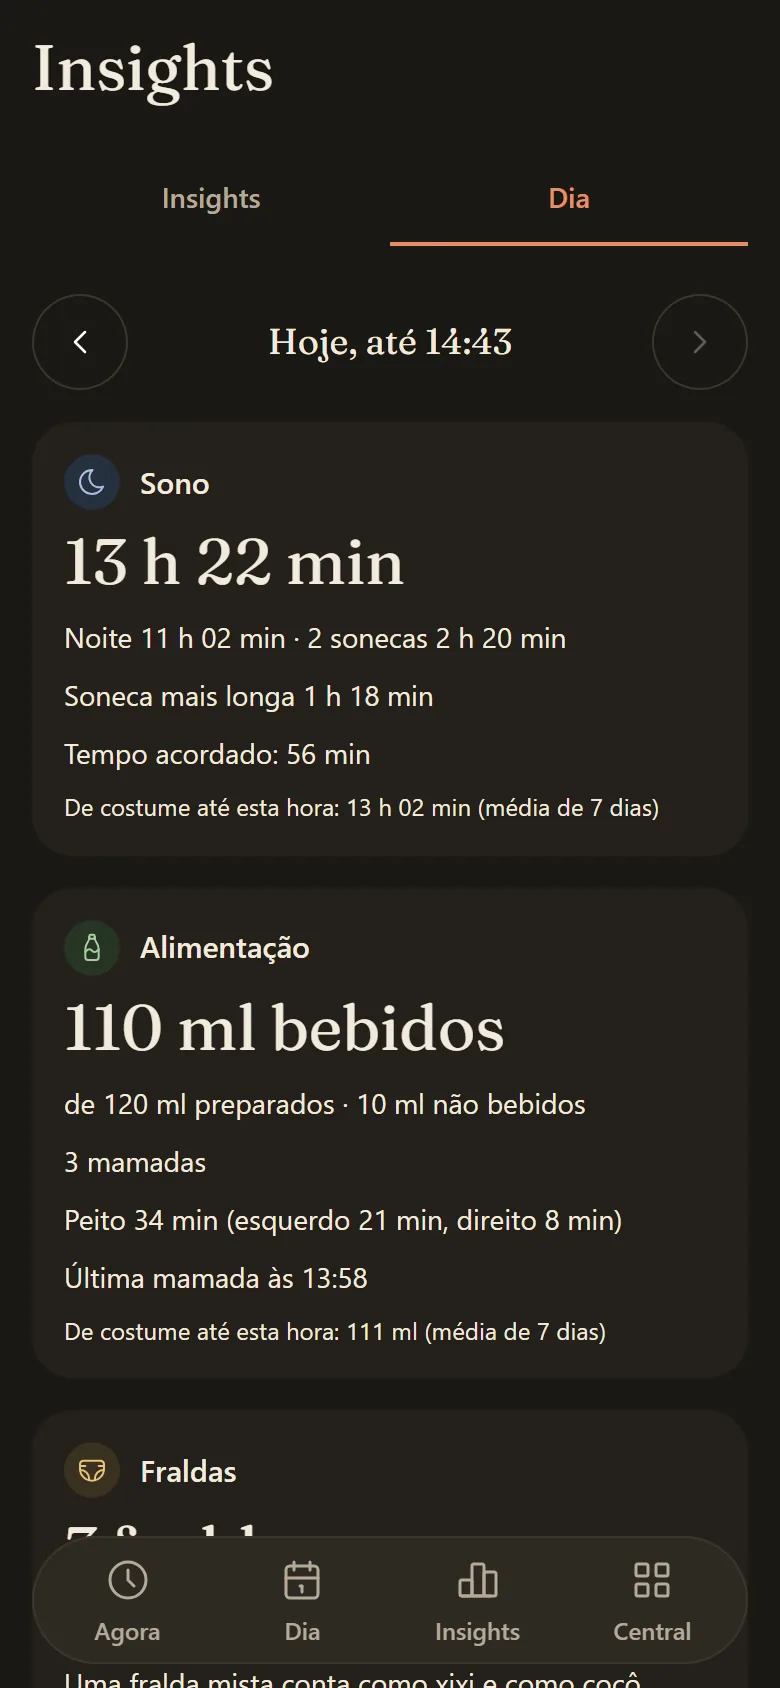
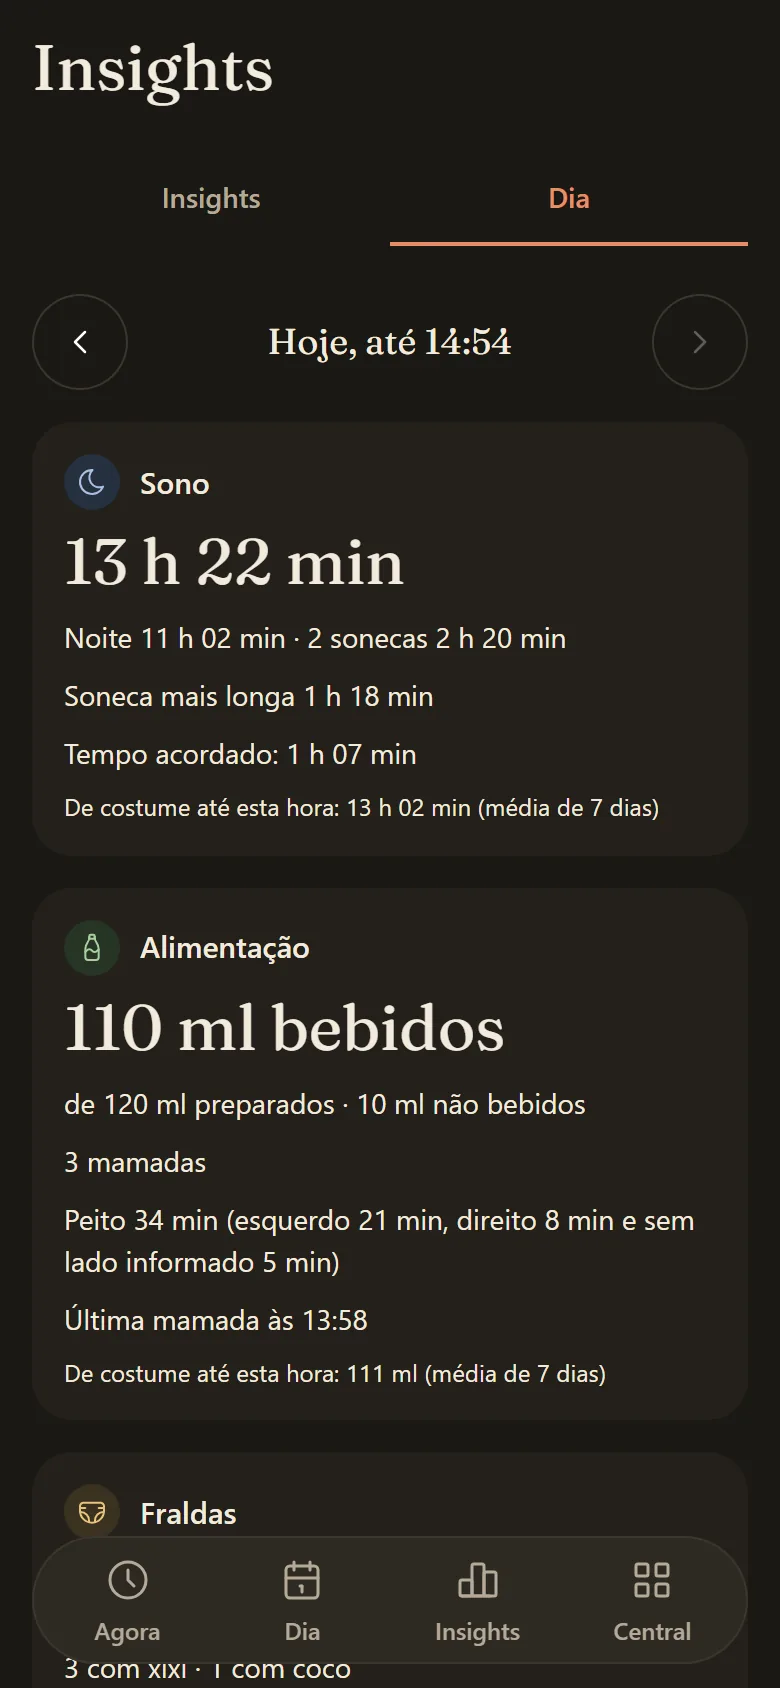
Day summary: breast time parts add up to the total as shown
Time that no side accounts for (a feed without side times, or minutes the
side timers did not cover) is shown as its own part, "side not recorded",
and the parts share the rounded total by the largest remainder, so left,
right and the rest always add up to the shown total. Screenshots and the
day-summary showcase media regenerated.

diff --git a/code/web/src/daySummary/daySummaryModel.ts b/code/web/src/daySummary/daySummaryModel.ts
@@ -104,12 +104,32 @@ export interface FeedingDay {
   feeds: number;
   /** Finished bottles of the day (the Now "Milk today" value); `null` without an amount. */
   milk: MilkToday | null;
-  /** Breast feeds: effective total and, when the payload has them, the seconds per side (ms). */
-  breast: { totalMs: number; leftMs: number; rightMs: number; hasSides: boolean } | null;
+  /**
+   * Breast feeds (ms): the effective total, the time timed per side and the rest of the total that
+   * no side accounts for (a feed without side seconds, or minutes a side timer did not cover), so
+   * left + right + unsided = total. `hasSides`: any side was timed.
+   */
+  breast: BreastTime | null;
   lastFeedAt: string | null;
   /** What the usual line measures: the drunk ml when the headline is ml, else the feed count. */
   usualMetric: 'ml' | 'feeds';
   usual: Usual | null;
+}
+
+export interface BreastTime {
+  totalMs: number;
+  leftMs: number;
+  rightMs: number;
+  unsidedMs: number;
+  hasSides: boolean;
+}
+
+/** Breast time as shown, in whole minutes: the parts always add up to the shown total. */
+export interface ShownBreast {
+  total: number;
+  left: number;
+  right: number;
+  unsided: number;
 }
 
 export interface DiaperDayCounts {
@@ -286,22 +306,51 @@ const feedsOf = (facts: Facts, day: MeasuredDay) =>
 const milkOf = (feeds: readonly BabyEvent[], day: MeasuredDay) =>
   milkFromBottles(feeds.filter((feed) => isFinishedBy(feed, day.cutoffMs)));
 
-function breastOf(feeds: readonly BabyEvent[], now: Date): FeedingDay['breast'] {
+function breastOf(feeds: readonly BabyEvent[], now: Date): BreastTime | null {
   const breast = feeds.filter((feed) => payloadString(feed, 'method') === 'breast');
   if (breast.length === 0) return null;
   let totalMs = 0;
   let leftMs = 0;
   let rightMs = 0;
   for (const feed of breast) {
-    totalMs += effectiveDurationMs(feed, now);
     const sides = nursingElapsed(feed, now);
-    leftMs += sides.left * 1000;
-    rightMs += sides.right * 1000;
+    const left = sides.left * 1000;
+    const right = sides.right * 1000;
+    // A feed timed per side is at least as long as its two sides; the rest has no side.
+    totalMs += Math.max(effectiveDurationMs(feed, now), left + right);
+    leftMs += left;
+    rightMs += right;
   }
-  const hasSides = leftMs + rightMs > 0;
-  // A nursing session timed per side is as long as its two sides.
-  const total = Math.max(totalMs, hasSides ? leftMs + rightMs : 0);
-  return total > 0 ? { totalMs: total, leftMs, rightMs, hasSides } : null;
+  if (totalMs <= 0) return null;
+  return {
+    totalMs,
+    leftMs,
+    rightMs,
+    unsidedMs: totalMs - leftMs - rightMs,
+    hasSides: leftMs + rightMs > 0,
+  };
+}
+
+/**
+ * Breast time in whole minutes as the card shows it (like `shownMilk` for the bottles): the total
+ * is rounded once and the parts share it by the largest remainder, so the shown left + right +
+ * unsided always equal the shown total (20.6 + 7.6 min is 28 in total, shown as 21 + 7, not 21 + 8).
+ */
+export function shownBreast(breast: BreastTime): ShownBreast {
+  const raw = [breast.leftMs, breast.rightMs, breast.unsidedMs].map((ms) => ms / MINUTE_MS);
+  const total = Math.round(breast.totalMs / MINUTE_MS);
+  const whole = raw.map(Math.floor);
+  let left = total - whole.reduce((sum, value) => sum + value, 0);
+  const order = raw
+    .map((value, index) => ({ index, rest: value - Math.floor(value) }))
+    .sort((a, b) => b.rest - a.rest || a.index - b.index);
+  for (const { index, rest } of order) {
+    if (left <= 0) break;
+    if (rest <= 0) continue;
+    whole[index] += 1;
+    left -= 1;
+  }
+  return { total, left: whole[0], right: whole[1], unsided: whole[2] };
 }
 
 // --- diapers and crying ---------------------------------------------------------------------

diff --git a/code/web/src/daySummary/DaySummaryCards.tsx b/code/web/src/daySummary/DaySummaryCards.tsx
@@ -1,16 +1,19 @@
 import { useId, type ReactNode } from 'react';
 import { useTranslation } from 'react-i18next';
+import type { TFunction } from 'i18next';
 import { Box, Card, Typography } from '@mui/material';
 import type { EventType } from '../db/models';
 import { eventTypeIconName } from '../events/iconRegistry';
-import { formatDuration, formatNumber, formatTime } from '../i18n/format';
+import { formatDuration, formatList, formatNumber, formatTime } from '../i18n/format';
 import { useEventTypeText } from '../i18n/eventTypeText';
 import { shownMilk } from '../now/milkToday';
 import type { CategoryName } from '../theme/tokens';
 import { useUnits } from '../units/useUnits';
 import { CategoryIcon } from '../ui/CategoryIcon';
 import type { IconName } from '../ui/icons';
+import { shownBreast } from './daySummaryModel';
 import type {
+  BreastTime,
   CryingDay,
   DiaperDayCounts,
   FeedingDay,
@@ -26,6 +29,7 @@ import type {
  */
 
 const duration = (ms: number) => formatDuration(ms);
+const minutes = (count: number) => formatDuration(count * 60_000);
 /** One decimal at most, as a number for the plural rules and `{{count, number}}`. */
 const roundOne = (value: number) => Math.round(value * 10) / 10;
 
@@ -149,6 +153,29 @@ export function SleepDayCard({ sleep, isToday }: { sleep: SleepDay; isToday: boo
   );
 }
 
+/**
+ * "Breast 34m (left 21m, right 8m, side not recorded 5m)": whole minutes from `shownBreast`, so
+ * the parts add up to the total as shown; only the total when no side was timed.
+ */
+function breastText(t: TFunction, breast: BreastTime): string {
+  const shown = shownBreast(breast);
+  const total = minutes(shown.total);
+  if (!breast.hasSides || shown.left + shown.right === 0) {
+    return t('daySummary.feeding.breast', { duration: total });
+  }
+  const parts = [
+    shown.left > 0 ? t('daySummary.feeding.sideLeft', { duration: minutes(shown.left) }) : null,
+    shown.right > 0 ? t('daySummary.feeding.sideRight', { duration: minutes(shown.right) }) : null,
+    shown.unsided > 0
+      ? t('daySummary.feeding.sideNone', { duration: minutes(shown.unsided) })
+      : null,
+  ].filter((part): part is string => part !== null);
+  return t('daySummary.feeding.breastParts', {
+    duration: total,
+    parts: formatList(parts, 'unit'),
+  });
+}
+
 export function FeedingDayCard({ feeding, isToday }: { feeding: FeedingDay; isToday: boolean }) {
   const { t } = useTranslation();
   const units = useUnits();
@@ -178,17 +205,7 @@ export function FeedingDayCard({ feeding, isToday }: { feeding: FeedingDay; isTo
         </Line>
       )}
       {shown && <Line>{feeds}</Line>}
-      {breast && (
-        <Line>
-          {breast.hasSides
-            ? t('daySummary.feeding.breastSides', {
-                duration: duration(breast.totalMs),
-                left: duration(breast.leftMs),
-                right: duration(breast.rightMs),
-              })
-            : t('daySummary.feeding.breast', { duration: duration(breast.totalMs) })}
-        </Line>
-      )}
+      {breast && <Line>{breastText(t, breast)}</Line>}
       {feeding.lastFeedAt && (
         <Line muted>
           {t('daySummary.feeding.lastFeed', { time: formatTime(feeding.lastFeedAt) })}

diff --git a/code/web/src/daySummary/daySummaryModel.test.ts b/code/web/src/daySummary/daySummaryModel.test.ts
@@ -16,6 +16,7 @@ import {
   earliestDay,
   hasDaySummaryData,
   queryFrom,
+  shownBreast,
 } from './daySummaryModel';
 
 const HOUR = 3_600_000;
@@ -159,12 +160,52 @@ describe('feeding of the day', () => {
       }),
       feed(at(0, 11), at(0, 11, 10), { method: 'breast' }),
     ]);
+    // 2 minutes of the first feed and the whole second one have no side.
     expect(s.feeding?.breast).toEqual({
       totalMs: 30 * MIN,
       leftMs: 600_000,
       rightMs: 480_000,
+      unsidedMs: 12 * MIN,
       hasSides: true,
     });
+    expect(shownBreast(s.feeding!.breast!)).toEqual({ total: 30, left: 10, right: 8, unsided: 12 });
+  });
+
+  it('counts a feed whose sides add up to more than its effective time at its sides', () => {
+    const s = summary([
+      feed(at(0, 8), at(0, 8, 10), {
+        method: 'breast',
+        breast_left_seconds: 400,
+        breast_right_seconds: 300,
+      }),
+    ]);
+    expect(s.feeding?.breast).toMatchObject({ totalMs: 700_000, unsidedMs: 0 });
+  });
+});
+
+describe('breast time as shown', () => {
+  const time = (left: number, right: number, unsided: number) => ({
+    totalMs: (left + right + unsided) * MIN,
+    leftMs: left * MIN,
+    rightMs: right * MIN,
+    unsidedMs: unsided * MIN,
+    hasSides: left + right > 0,
+  });
+
+  it('rounds the total once and shares it, so the parts add up as shown', () => {
+    // 20.6 + 7.6 = 28.2: shown 28 = 21 + 7, never 21 + 8.
+    expect(shownBreast(time(20.6, 7.6, 0))).toEqual({ total: 28, left: 21, right: 7, unsided: 0 });
+    expect(shownBreast(time(9.5, 9.5, 0))).toEqual({ total: 19, left: 10, right: 9, unsided: 0 });
+    expect(shownBreast(time(0.4, 0.4, 0.4))).toEqual({ total: 1, left: 1, right: 0, unsided: 0 });
+  });
+
+  it('keeps the sum equal to the total for many splits', () => {
+    for (let i = 0; i < 200; i++) {
+      const parts = [((i * 37) % 97) / 7, ((i * 53) % 89) / 9, ((i * 11) % 31) / 5];
+      const shown = shownBreast(time(parts[0], parts[1], parts[2]));
+      expect(shown.left + shown.right + shown.unsided).toBe(shown.total);
+      expect(shown.total).toBe(Math.round(parts[0] + parts[1] + parts[2]));
+    }
   });
 });
 

diff --git a/code/web/src/daySummary/DaySummaryView.test.tsx b/code/web/src/daySummary/DaySummaryView.test.tsx
@@ -200,6 +200,46 @@ describe('today', () => {
   });
 });
 
+describe('breast time', () => {
+  it('shows the time without a side as its own part, the parts adding up to the total', async () => {
+    await seed([
+      // 20.6 + 7.6 minutes timed per side in a 30-minute feed: 1.8 minutes without a side.
+      make(FEEDING_TYPE.id, at(0, 8), at(0, 8, 30), {
+        method: 'breast',
+        breast_left_seconds: 1236,
+        breast_right_seconds: 456,
+      }),
+      // A feed logged without side times.
+      make(FEEDING_TYPE.id, at(0, 12), at(0, 12, 5), { method: 'breast' }),
+    ]);
+    renderView();
+    expect(
+      await screen.findByText('Breast 35m (left 21m, right 7m, side not recorded 7m)'),
+    ).toBeTruthy();
+  });
+
+  it('shows only the total when no side was timed', async () => {
+    await useTestLocale('pt-BR');
+    await seed([make(FEEDING_TYPE.id, at(0, 12), at(0, 12, 25), { method: 'breast' })]);
+    renderView();
+    expect(await screen.findByText('Peito 25 min')).toBeTruthy();
+  });
+
+  it('names the part without a side in Portuguese', async () => {
+    await useTestLocale('pt-BR');
+    await seed([
+      make(FEEDING_TYPE.id, at(0, 8), at(0, 8, 20), {
+        method: 'breast',
+        breast_left_seconds: 600,
+      }),
+    ]);
+    renderView();
+    expect(
+      await screen.findByText('Peito 20 min (esquerdo 10 min e sem lado informado 10 min)'),
+    ).toBeTruthy();
+  });
+});
+
 describe('the day navigator', () => {
   it('goes back to yesterday, measured whole, and stops at the first logged day', async () => {
     await seed([...TODAY_EVENTS(), ...loggedDay(1), ...loggedDay(2)]);

diff --git a/docs/DESIGN.md b/docs/DESIGN.md
@@ -283,7 +283,7 @@ Offline-first: everything is worked out on the device from the selected baby's l
 Owner: "implement it, but don't break the current layout, only add". Code: `code/web/src/daySummary/` (pure model + thin cards), offline from the local events only (no API), live once a minute.
 - Tabs: Insights (unchanged, first and default; `#growth` still lands there and switches back to it) | Day (only with a selected baby) | Rest (only when turned on). The tab bar now always shows when there is a baby; no baby, no Day tab. Switching babies brings the Day tab back to today. Not lazy (the page imports its tabs directly, like Rest).
 - Navigator: round 48 px previous/next buttons around "Today, up to 15:40" / "Yesterday" / "Monday, October 19". Next stops at today; previous at 30 days back (`MAX_DAYS_BACK`, the window Insights reads) or the first logged day, whichever is later. The device keeps the whole synced history; the bound keeps the query the size Insights already loads.
-- Cards, in order, each hidden when nothing of it was logged that day; all hidden: a calm empty card. Sleep (total; "Night X · N naps Y"; longest nap from two naps; today "Awake for X" / "Asleep for X" as the Now screen derives them); Feeding (full width; "N ml drunk" with "of P prepared · R not drunk" under it through the Now Milk today rule and `shownMilk`, else the feed count; feeds counted like the Now Feeds tile, solids included, pumping never; breast time with the sides when timed per side; last feed time); Diapers and Crying side by side (a lone one takes the row; wet = WET + MIXED, dirty = DIRTY + MIXED with the Insights mixed note; crying spells and their timed length); Health and care (latest temperature in the person's units with its time, the number of medication doses (a count only), one line per other kind logged with its count and the total time of timed kinds, custom types by name; pumping and free-text notes never shown). Footnote: "Calculated on this device from what was logged. Not medical advice."
+- Cards, in order, each hidden when nothing of it was logged that day; all hidden: a calm empty card. Sleep (total; "Night X · N naps Y"; longest nap from two naps; today "Awake for X" / "Asleep for X" as the Now screen derives them); Feeding (full width; "N ml drunk" with "of P prepared · R not drunk" under it through the Now Milk today rule and `shownMilk`, else the feed count; feeds counted like the Now Feeds tile, solids included, pumping never; breast time with, when any side was timed, left, right and "side not recorded" (time no side accounts for: a feed without side times, or minutes the side timers did not cover), whole minutes shared from the rounded total so the parts add up as shown (`shownBreast`); last feed time); Diapers and Crying side by side (a lone one takes the row; wet = WET + MIXED, dirty = DIRTY + MIXED with the Insights mixed note; crying spells and their timed length); Health and care (latest temperature in the person's units with its time, the number of medication doses (a count only), one line per other kind logged with its count and the total time of timed kinds, custom types by name; pumping and free-text notes never shown). Footnote: "Calculated on this device from what was logged. Not medical advice."
 - Definitions: night = the latest night session that ENDED on the day, whole (it may start the evening before); naps = nap sessions that STARTED on the day (a running one up to now); total = night + naps; pauses never count. A night still running is not in today's total.
 - "Usual by this time" (today) / "Usual per day" (a past day) on Sleep, Feeding (ml when the headline is ml, else feeds), Diapers and Crying (spells): the mean of the same baby's 7 local days before the viewed day, over the days where that category was logged at all (an unlogged day is missing, a logged day with nothing by then is zero), shown from 3 such days, "(average of N days)". Today each past day is cut at the same local clock time (built from calendar fields, DST safe): counts by start, bottles started and finished by then, the night when it ended by then, nap minutes elapsed by then (`effectiveMsInWindow`). A sleep day counts as logged when a night ended or a nap started on it. No arrows, colours or judging words; never another baby or a norm.
 - Read-only for every role (Viewer and Caregiver see the same numbers); a Doctor never gets the parents' shell.
